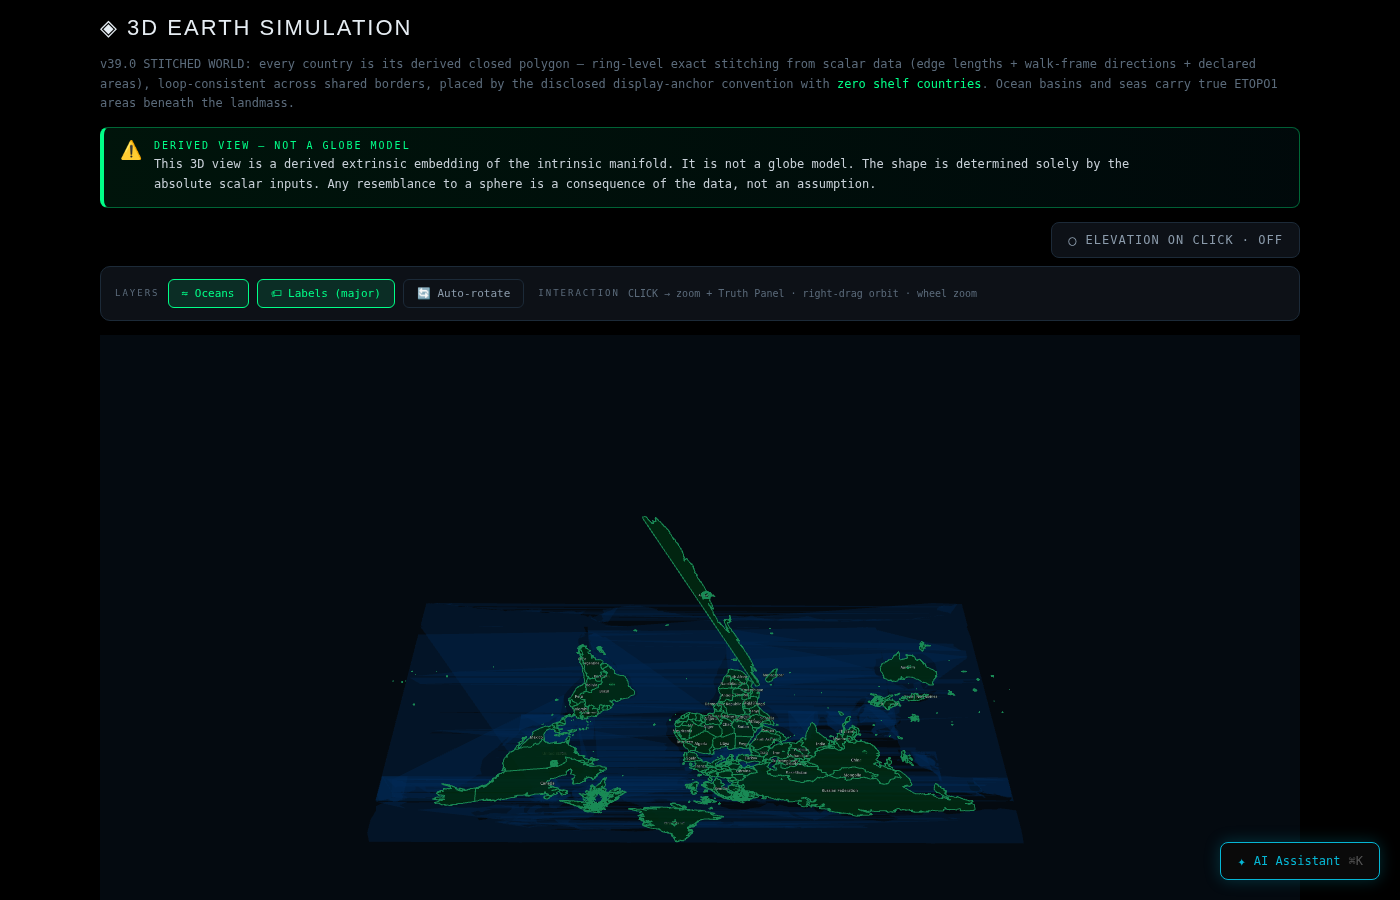
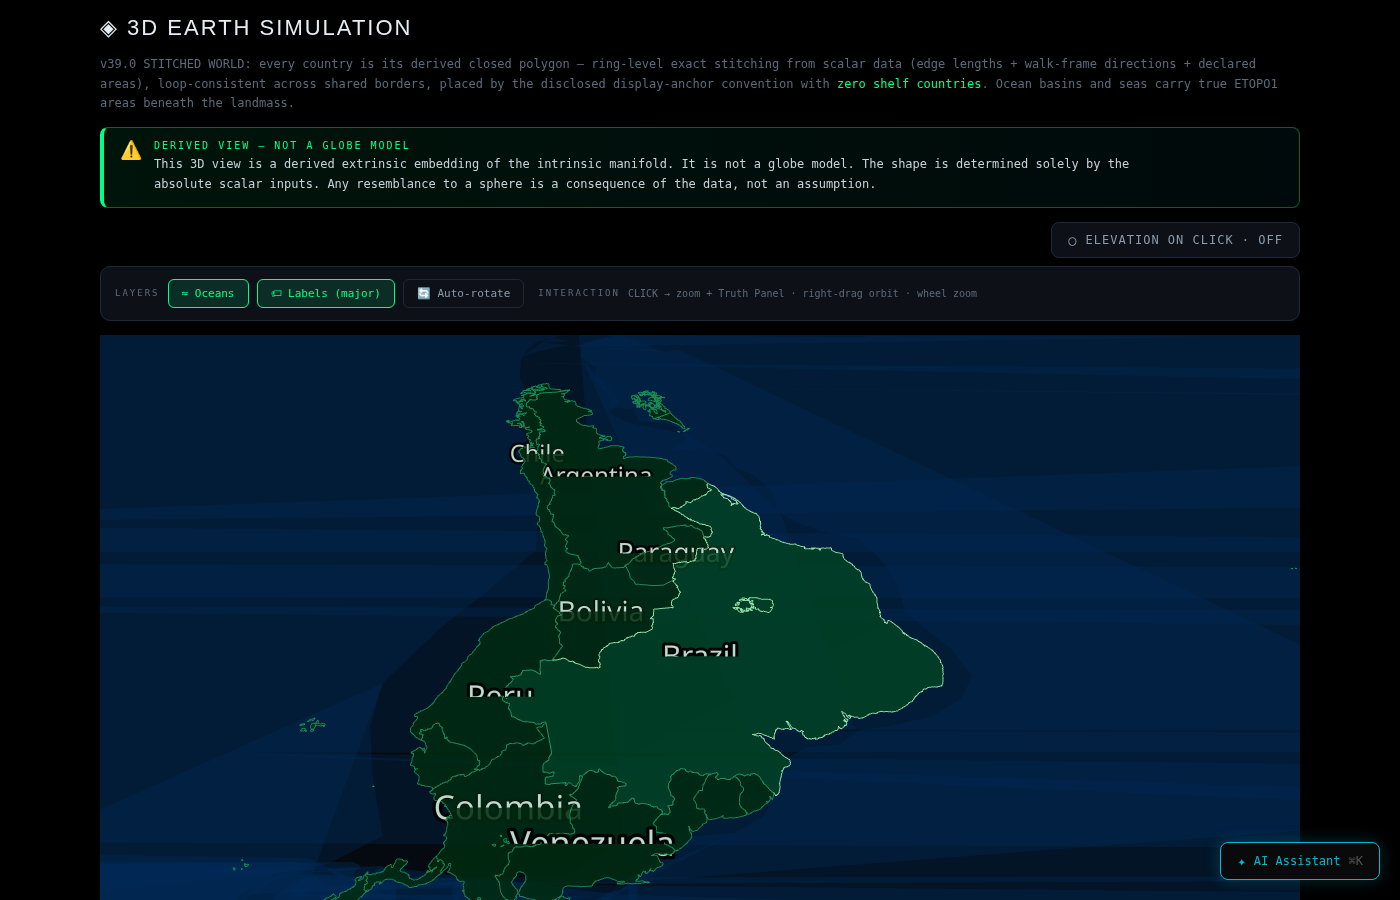
fix: v39.0 initial camera framing — fit the full stitched world on load
The default camera (2.2R up / 1.7R south, far 12R) cropped the world's
width at the frame edges on first load. Pull back to 2.9R/2.3R with far
25R and maxDistance 9R so all 242 countries + ocean basins are visible
immediately; click-to-zoom unchanged.

diff --git a/web/src/components/three/InteractiveEarth3D.tsx b/web/src/components/three/InteractiveEarth3D.tsx
@@ -339,11 +339,11 @@ export default function InteractiveEarth3D({
       camera={{
         position: [
           bounds.center.x,
-          bounds.radius * 2.2,
-          bounds.center.z + bounds.radius * 1.7,
+          bounds.radius * 2.9,
+          bounds.center.z + bounds.radius * 2.3,
         ],
         near: 1,
-        far: bounds.radius * 12,
+        far: bounds.radius * 25,
         fov: 42,
       }}
       gl={{ antialias: true, powerPreference: 'high-performance' }}
@@ -425,7 +425,7 @@ export default function InteractiveEarth3D({
         rotateSpeed={0.6}
         panSpeed={0.8}
         minDistance={bounds.radius * 0.02}
-        maxDistance={bounds.radius * 6}
+        maxDistance={bounds.radius * 9}
         maxPolarAngle={Math.PI * 0.49}
         target={[bounds.center.x, 0, bounds.center.z]}
         autoRotate={autoRotate}
